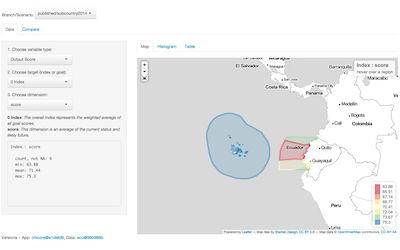
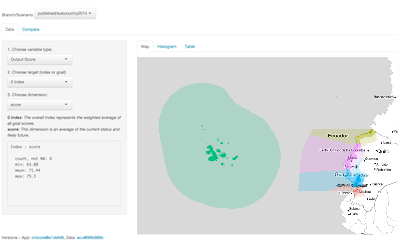
updated menu images with country maps

Changed region(s): [[0.39, 0.224, 1.0, 0.952], [0.33, 0.252, 0.39, 0.336]]

diff --git a/_includes/header.html b/_includes/header.html
@@ -1,7 +1,7 @@
 <header id="masthead">
   <div class="inner-wrap">
     <a href="{{ site.baseurl }}/" class="site-title">
-      <img src="{{ site.baseurl }}/images/ohi_logo_bw.png" alt='OHI logo'>
+      <img src="{{ site.baseurl }}/images/ohi-logo.png" alt='OHI logo'>
       {% if site.flag %}
         <img src="{{ site.baseurl }}/images/{{ site.flag }}" alt='{{ site.study_area }} flag'>
       {% endif %}

diff --git a/index.md b/index.md
@@ -2,7 +2,7 @@
 layout: home
 permalink: /
 image:
-  feature: map_effect.png
+  feature: map_1600x800.png
 ---
 
 <p class="post-excerpt">
